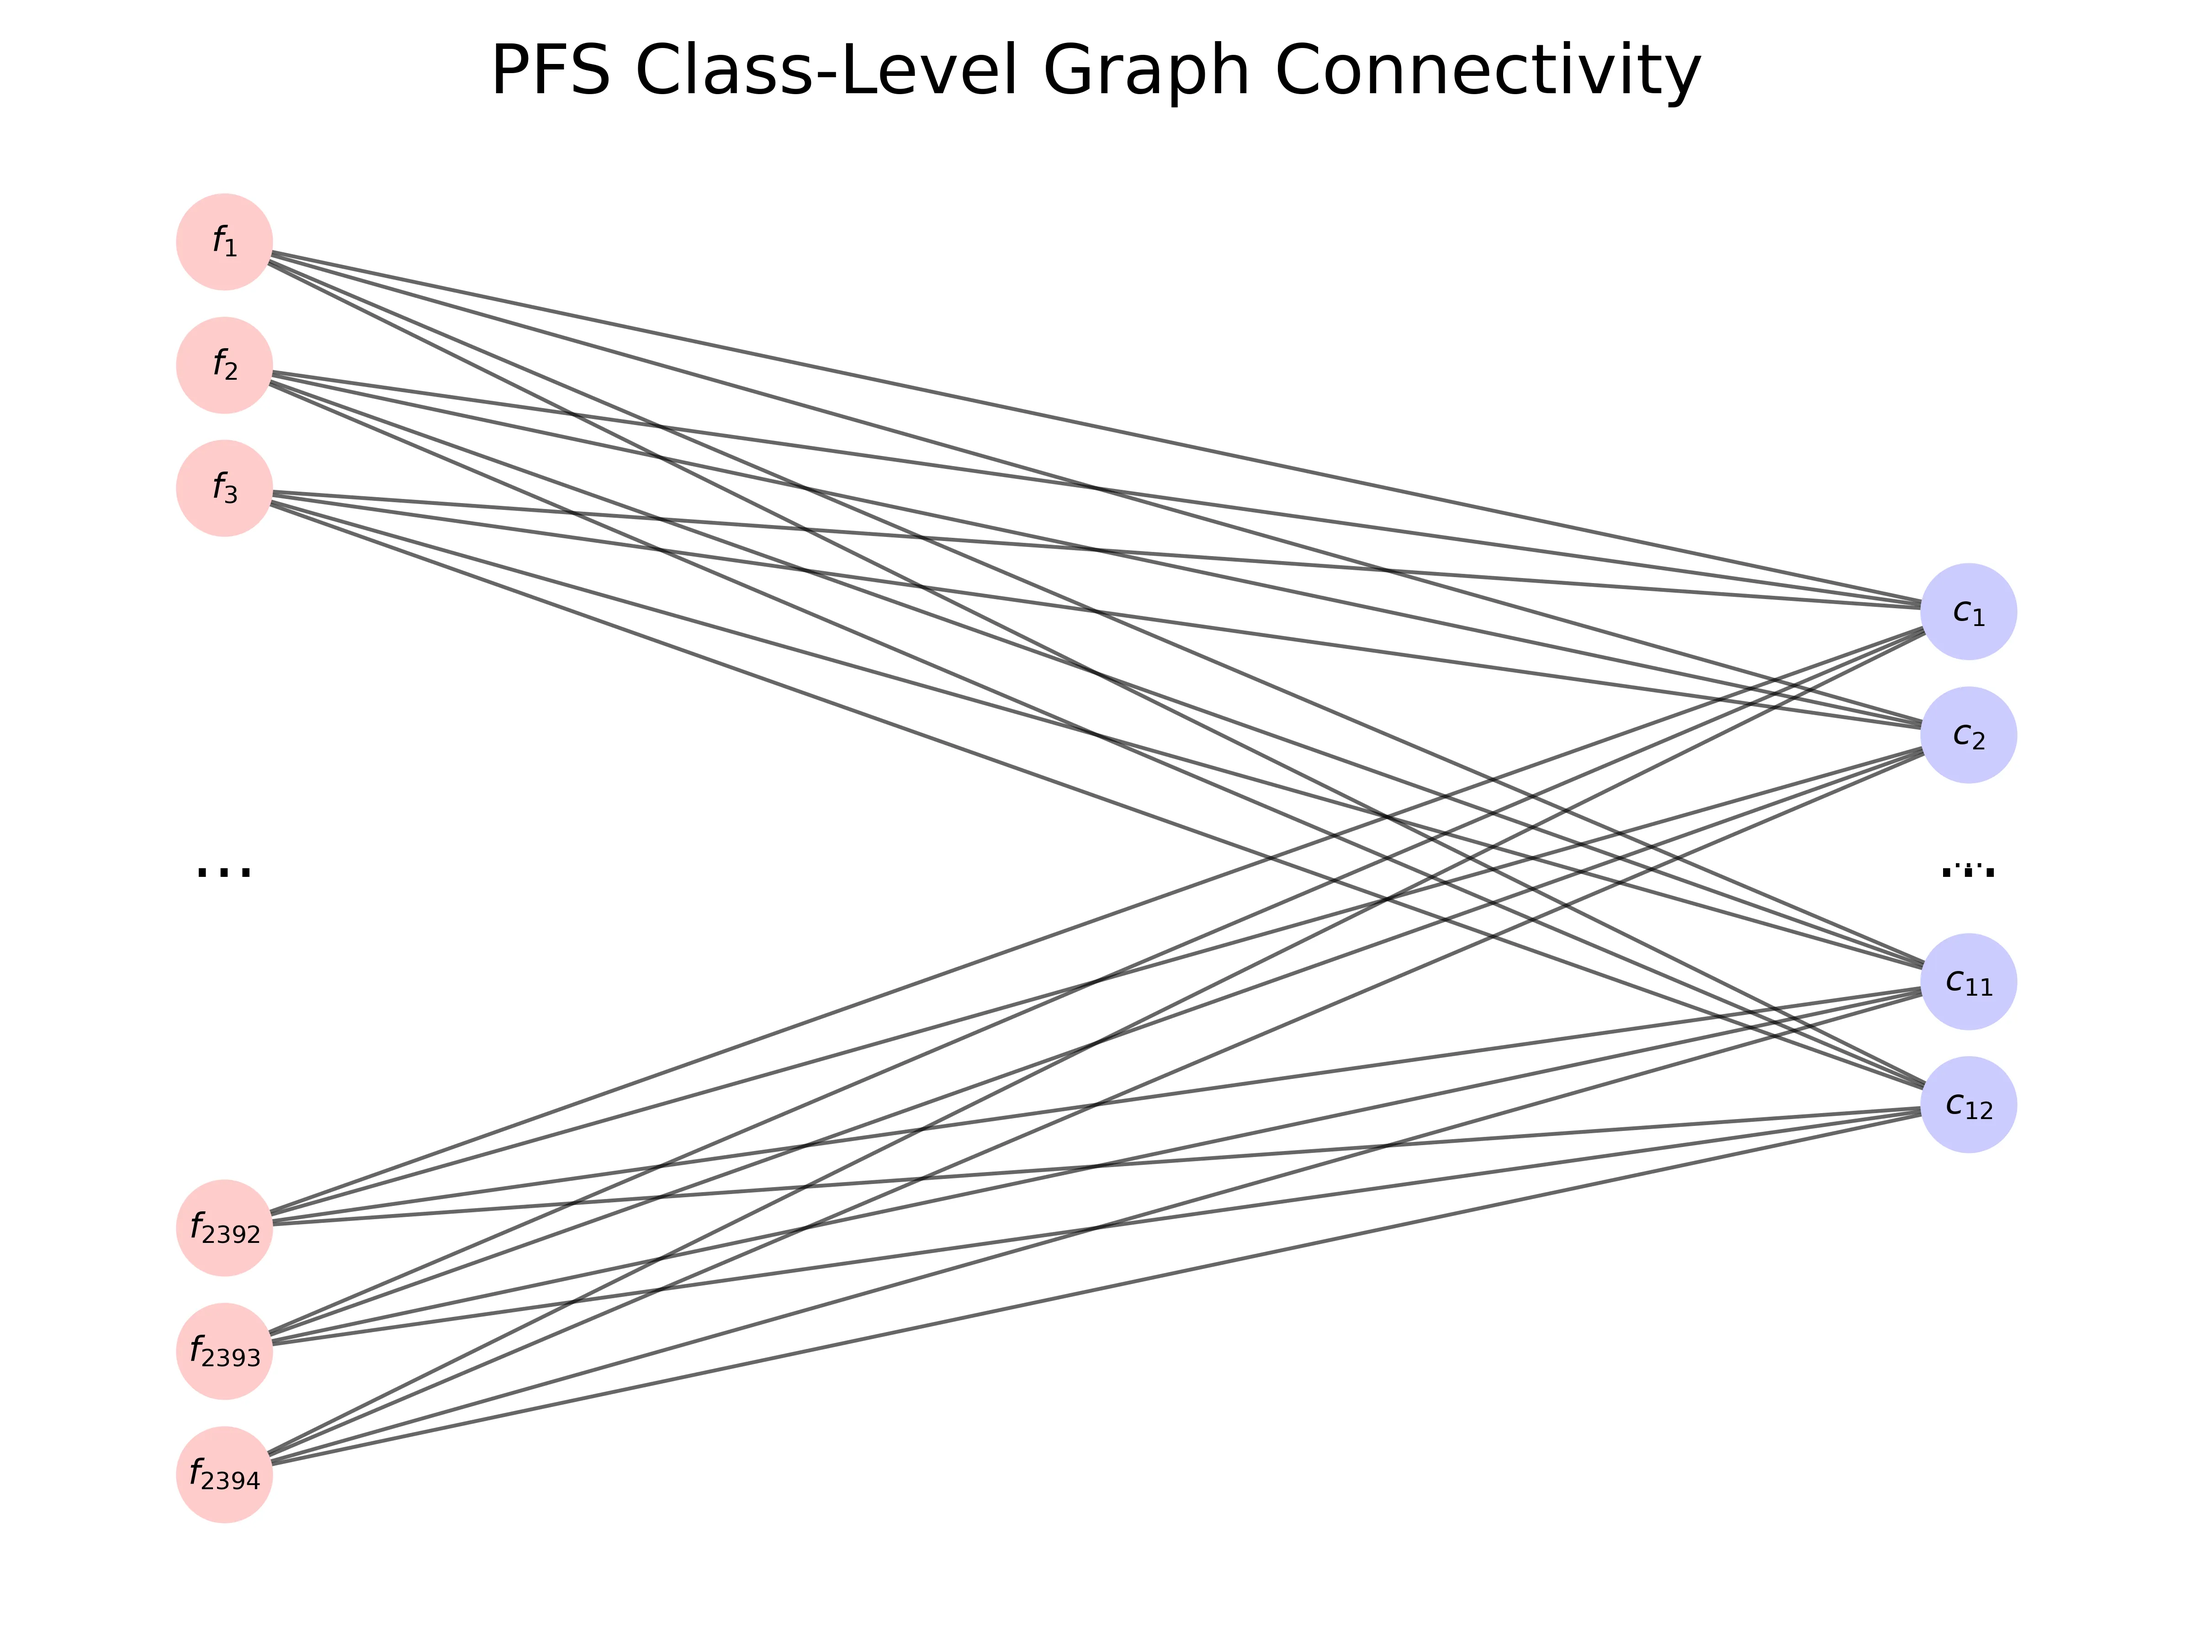
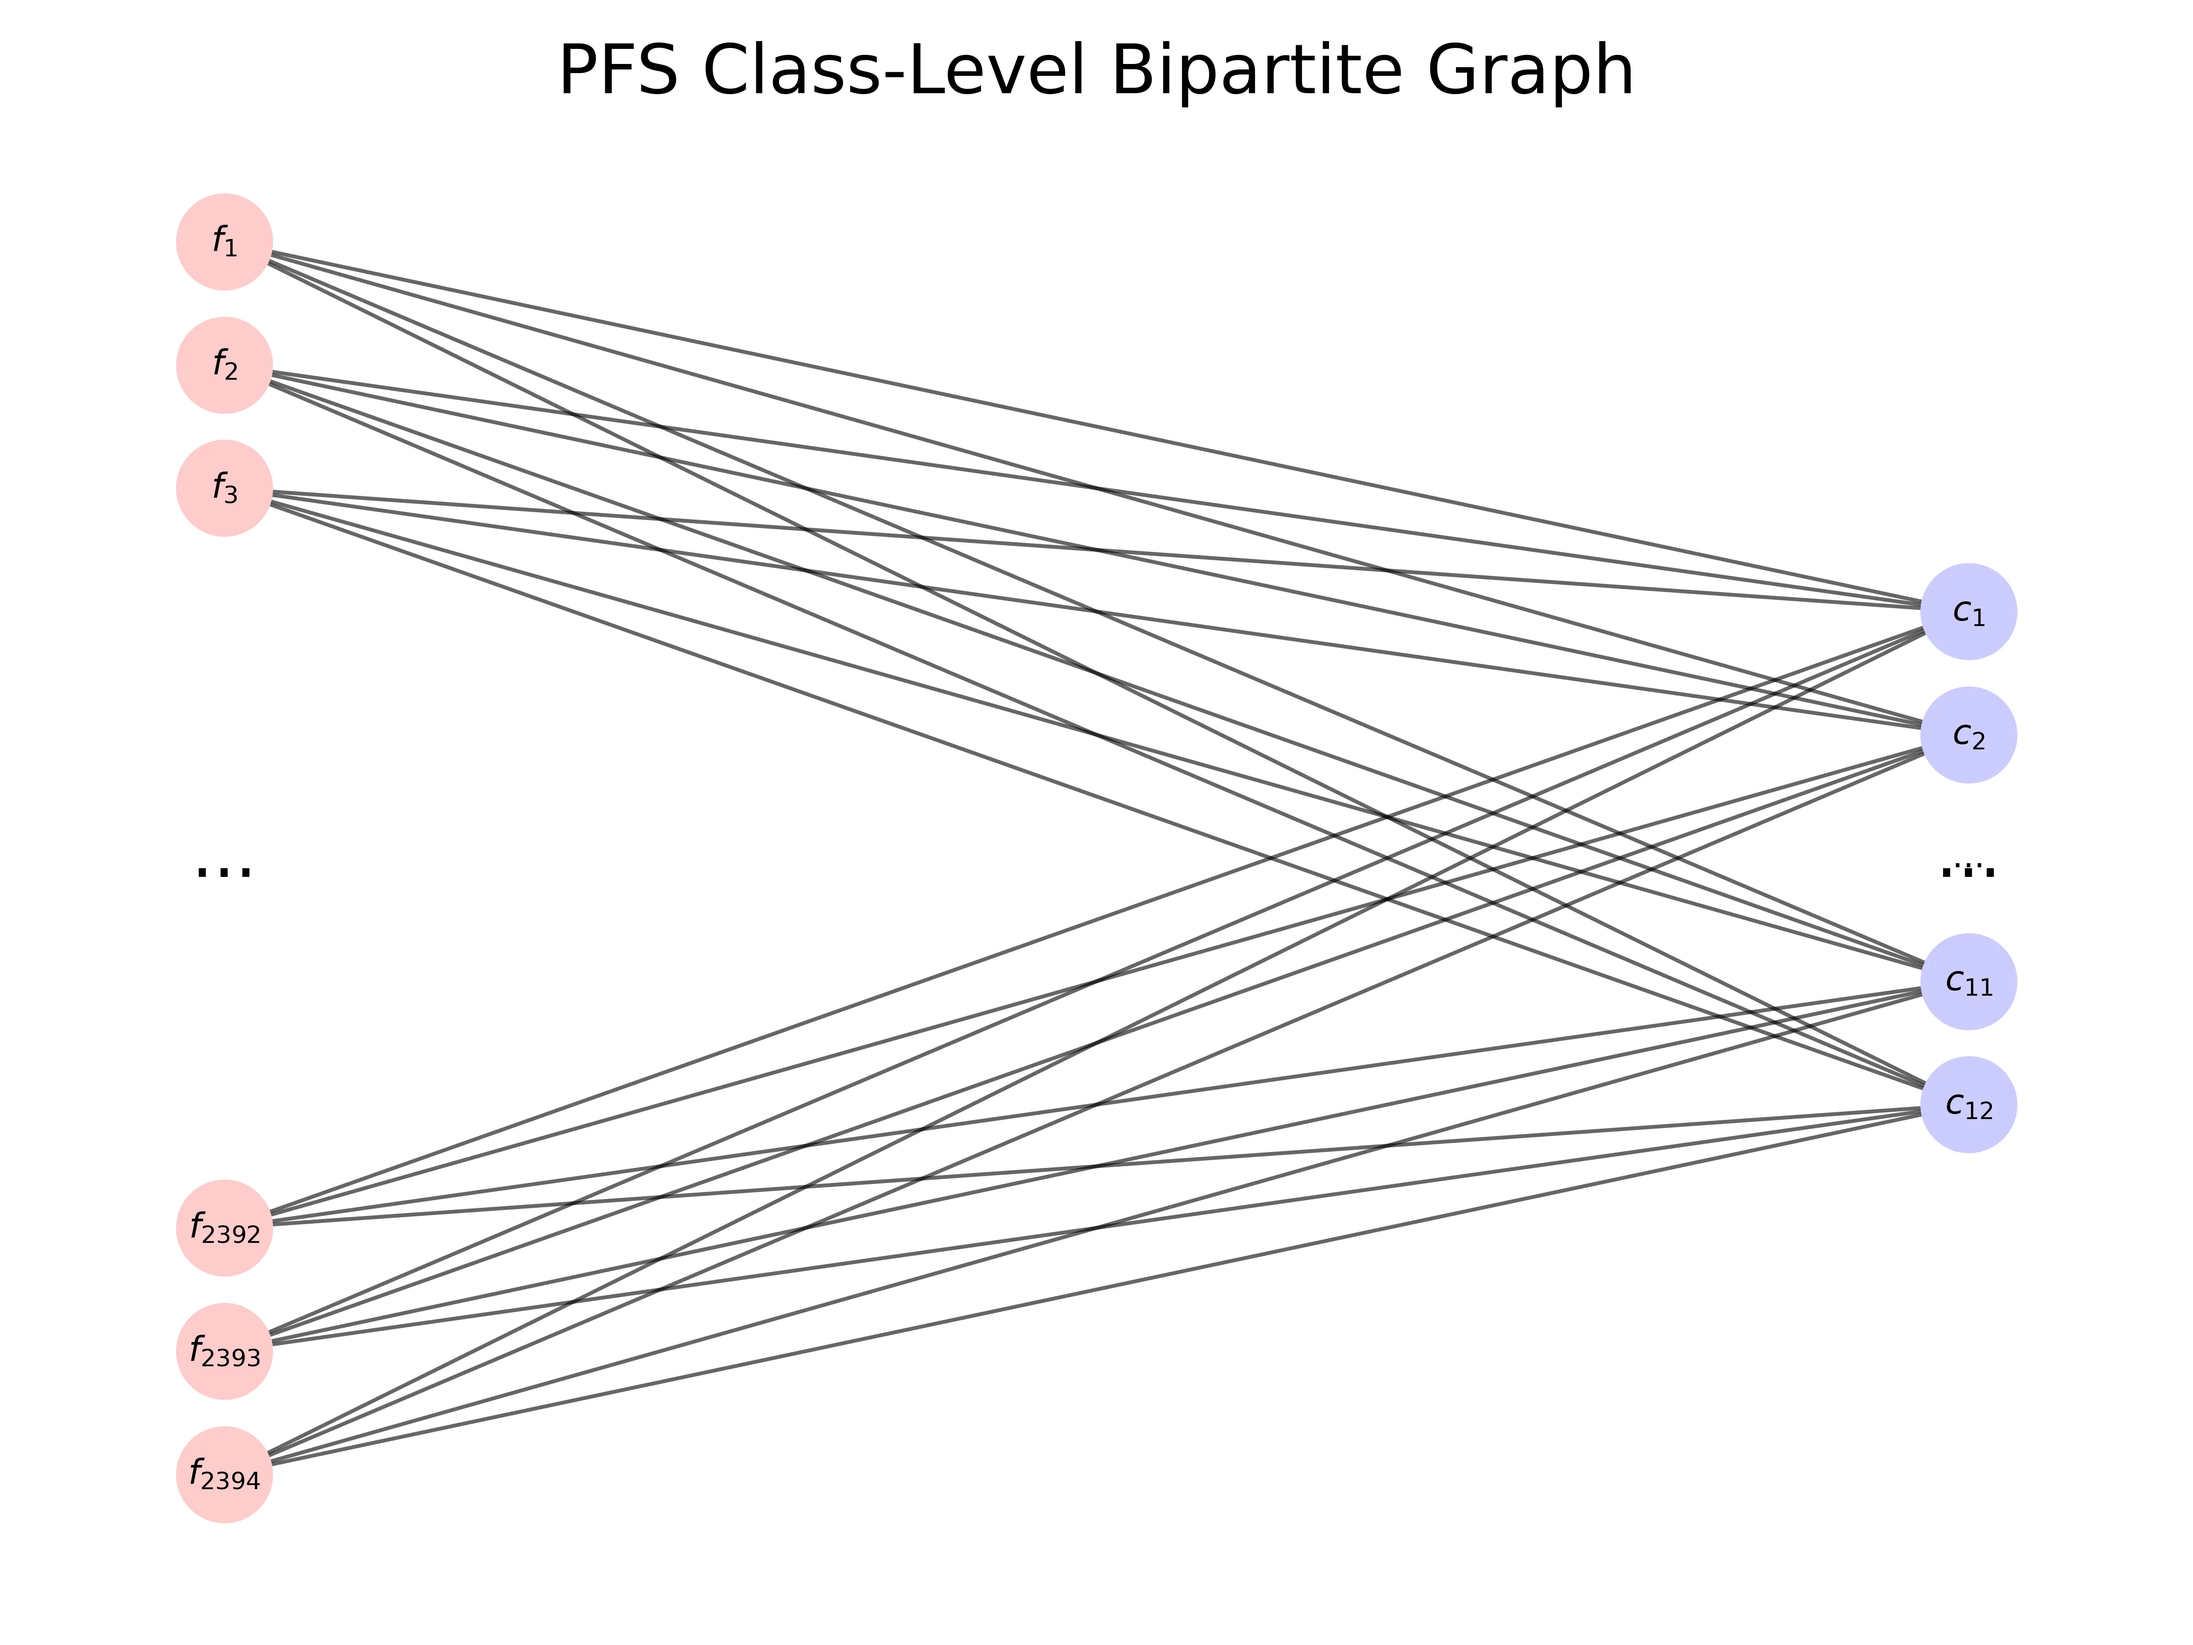
graph modeling (class-level message passing)

Changed region(s): [[0.2188, 0.0, 0.7812, 0.0622]]

diff --git a/research/galaxy-evolution.html b/research/galaxy-evolution.html
@@ -234,16 +234,13 @@
           </p>
 
           <header>
-            <h3>
-              Class-Level Message Passing 
+            <h3 style="margin-bottom: 0.5em;">
+              Class-Level Message-Passing
             </h3>
+            <h4>
+              Graph Modeling
+            </h4>
           </header>
-
-          <p>
-            <a href="https://www.github.com/joshua-lintropic/PFS-Class-Optimizer">
-              Github: joshua-lintropic/PFS-Class-Optimizer
-            </a>
-          </p>
 
           <p>
             Since the goal of $\Lambda_1$ is to assign each fiber to a particular galaxy target during a given exposure $t$, the natural structure of the problem is bipartite. One way to reduce the dimensionality of the problem comes from looking at <i>galaxy classes</i>, rather than individual galaxies. Let's take a look at properties of the classes: 
@@ -308,21 +305,74 @@
             Since there are only $M = 12$ classes, while there are $I = \sum_{m \in \mathcal{M}} N_m = 338900$ galaxies, constructing our graph with fibers and classes reduces the number of nodes in the bipartite graph by over a factor of a hundred! 
           </p>  
 
+          <p>
+            The construction of our graph, then, will be as follows:
+          </p>
+
+          <ol type="1">
+            <li>
+              The left part $\mathcal{K}$ will represent fiber nodes. 
+            </li>
+            <li>
+              The right part $\mathcal{M}$ will represent class nodes. 
+            </li>
+          </ol>
+          <br>
+
+          <p>
+            The remaining question, then, is what the connectivity of the bipartite graph will be, and to what extent this model impacts correctness. To that end, the following (empirically true!) assumption will be useful: 
+          </p>
+
+          <blockquote>
+            Galaxies are uniformly distributed throughout the fibers' fields of view. 
+          </blockquote>
+
+          <p>
+            An important consequence of this assumption is that most galaxies will be only observable by exactly one fiber, and furthermore that each fiber will have an abundance of galaxies to observe from every class, should it choose to do so. As a direct result, we can now fully describe our graph by specifying:
+          </p>
+
+          <ol type="1" start="3">
+            <li>
+              The graph connectivity will be <i>complete.</i>
+            </li>
+          </ol>
+          <br>
+
+          <p>
+            The point of this graph construction is that every fiber will predict a weight for every class, denoting the number of galaxies from that class it will observe. Because our objective depends on class-completion, not individual galaxies, and is independent of the order of observation, this collection of weights will specify a feasible solution.
+          </p>
+
+          <p>
+            In reality, there will be an intra-class ranking of galaxies that we can use to select galaxies from each class, and generally for stability we ought to complete "long-run" &mdash; large $T_m$ &mdash; targets first. But the point is that once we have the per-fiber class numbers, we may further tune these parameters to find a close-to-optimal solution. 
+          </p>
+
+          <p>
+            Note that because of our assumption that each galaxy is observable by exactly one fiber, and also due to the abundance of galaxies relative to fiber-exposures ($I\gg KL$), we can be assured that any galaxy which fiber $k$ chooses to observe will be distinct from any other galaxy which fiber $k'$ chooses to observe.
+          </p>
+          
+          <p>
+            So, onto the engineering front! How can we turn this graph model into an MPNN? 
+          </p>
+
           <figure class="blog-post-image">
             <img src="../assets/images/class_bipartite.webp" alt="Bipartite graph representation of galaxy classes" />
           </figure>
           <br>
           
+          <header>
+            <h4>
+              Message-Passing Layers
+            </h4>
+          </header>
+
           <p>
-            The remaining question, then, is to what extent this tractability improvement sacrifices correctness. To that end, the following fact will be important: 
+            <a href="https://github.com/joshua-lintropic/PFS-Class-Optimizer/tree/main">
+              Github: joshua-lintropic/PFS-Class-Optimizer
+            </a>
           </p>
 
-          <blockquote>
-            Almost all galaxies are within the field of view of only a single fiber. 
-          </blockquote>
-
           <p>
-            A priori, a potential concern 
+            TODO. 
           </p>
 
           <!-- <br> -->

diff --git a/assets/css/style.css b/assets/css/style.css
@@ -534,7 +534,9 @@ header h2,
 header h3 {
   color: #B9D9EB;
 }
-header h4, 
+header h4 {
+  margin-bottom: 0.0em;
+}
 header h5,
 header h6
 

diff --git a/scripts/draw_bipartite.py b/scripts/draw_bipartite.py
@@ -68,6 +68,6 @@ nx.draw_networkx_edges(G, pos, edgelist=edge_list, alpha=0.6)
 # plot metadata
 nx.draw_networkx_labels(G, pos, font_size=9)
 plt.axis('off')
-plt.title(f"PFS Class-Level Graph Connectivity", pad=5, fontsize=18)
+plt.title(f"PFS Class-Level Bipartite Graph", pad=5, fontsize=18)
 plt.tight_layout()
 plt.savefig('../assets/images/class_bipartite.webp')
